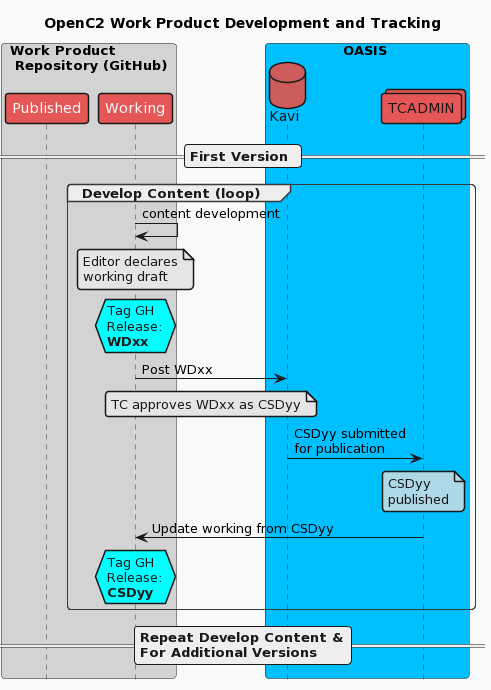
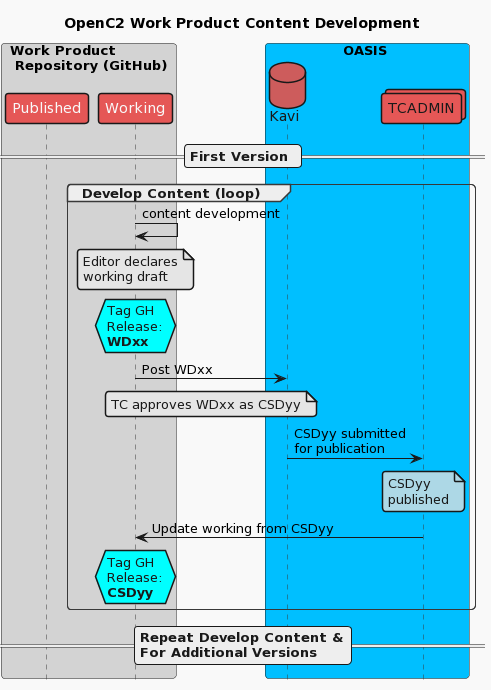
add new content development figure and description

Changed region(s): [[0.0916, 0.0, 0.9165, 0.0609]]

diff --git a/Documentation-Norms.md b/Documentation-Norms.md
@@ -652,24 +652,37 @@ Developing a document on GitHub requires the editor to develop a level of comfor
 * Authoring a document using [Github-Flavored](https://en.wikipedia.org/wiki/Markdown#GFM) [Markdown](https://en.wikipedia.org/wiki/Markdown) for formatting
 * Using GitHub / Git procedures for version control
 
-Document creation using GitHub is inherently text-based. 
-It is possible for an editor to do all of their work 
-entirely within GitHub, but for many it may be more 
-comfortable and/or convenient to create a local copy 
-of the repository to enable use of preferred text editors, 
-working offline, etc. [Annex A](#annex-a-links-to-useful-software) 
-provides suggestions for useful software. [Annex B](#annex-b-getting-comfortable-with-github) 
-provides an overview of establishing an environment with 
-a related set of repositories to enable working in this 
-manner and a link to an excellent explainer; other resources 
-can readily be found by searching on-line. TC members are 
-also happy to share their GitHub knowledge, and GitHub 
-provides an extensive [help](https://help.github.com/en) library.
+Document creation using GitHub is inherently text-based. It is
+possible for an editor to do all of their work entirely within
+GitHub, but for many it may be more comfortable and/or convenient
+to create a local copy of the repository to enable use of
+preferred text editors, working offline, etc. [Annex
+A](#annex-a-links-to-useful-software) provides suggestions for
+useful software. [Annex
+B](#annex-b-getting-comfortable-with-github) provides an overview
+of establishing an environment with a related set of repositories
+to enable working in this manner and a link to an excellent
+explainer; other resources can readily be found by searching
+on-line. TC members are also happy to share their GitHub
+knowledge, and GitHub provides an extensive
+[help](https://help.github.com/en) library.
 
-### Figure XX: New Work Product Launch
-_(source: sources/work-product-init.plant.txt)_
+Figure XX illlustrates the flow of information between GitHub and
+OASIS as working drafts are posted and CSDs are approved. It also
+illustrates the use of GitHub release tags to enable precisely
+locating specific versions of the work product in the repository.
+Figure XX shows updating the working version from a published
+CSD. It is common for OASIS TC Administration to find and fix
+issues in work products during publiction (9)e.g., correcting
+broken links). The incorporation of such changes into the working
+version aids in the publication of future versions. The details
+of such changes are commonly included in the email sent to the TC
+mail list when a CSD is published. 
 
-![Work Product Launch](images/work-product-initiation.png)
+### Figure XX: New Work Content Development
+_(source: sources/dev-content.plant.txt)_
+
+![Work Product Launch](images/work-product-content-development.png)
 
 ### 4.4.1 Creating & Posting a Working Draft
 
